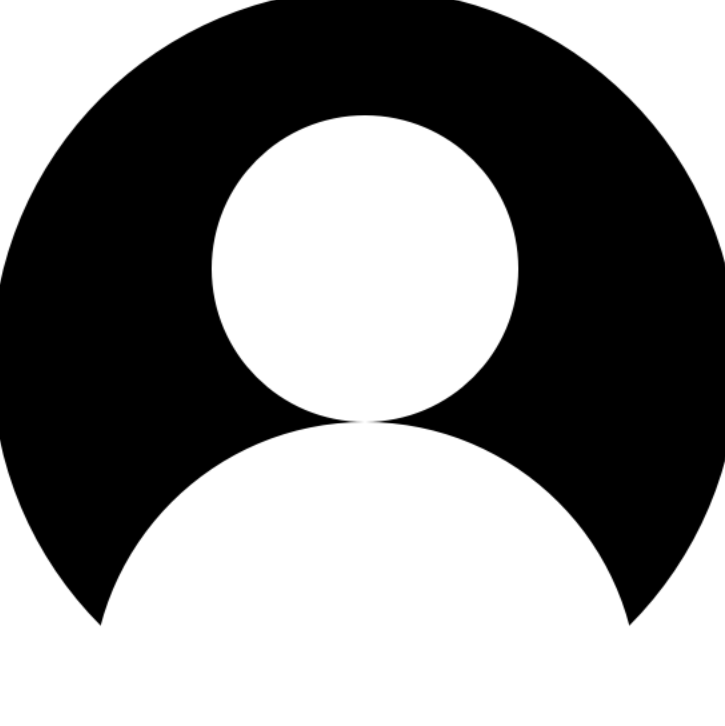
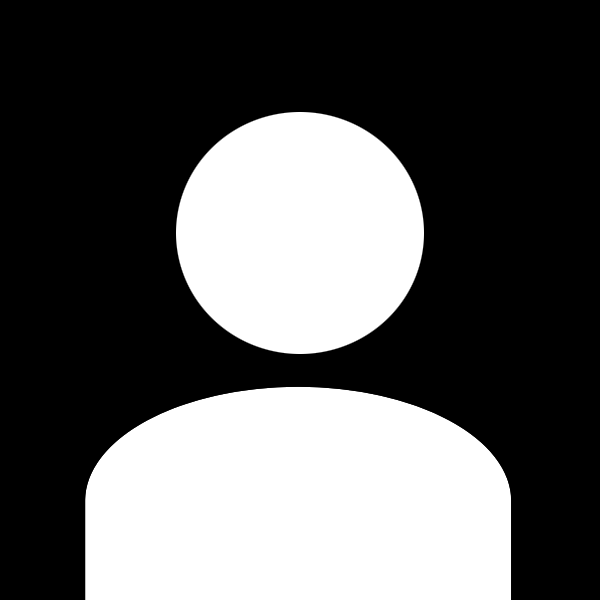
fix : Safari 에서 이미지가 둥글게 표시되지 않던 오류 픽스

diff --git a/src/components/page-title/index.js b/src/components/page-title/index.js
@@ -10,11 +10,9 @@ const PageTitle = ({ title }) => {
   const { author } = useMetadata()
   return (
     <div className="page-title">
-      <GatsbyImage
-        image={profileImg}
-        style={{ borderRadius: '50px' }}
-        alt={author}
-      />
+      <div className="page-title-profile">
+        <GatsbyImage image={profileImg} alt={author} />
+      </div>
       <Title title={title} />
     </div>
   )

diff --git a/src/components/page-title/index.scss b/src/components/page-title/index.scss
@@ -7,3 +7,9 @@
     padding: 0;
   }
 }
+
+.page-title-profile {
+  overflow: hidden;
+  isolation: isolate;
+  border-radius: 50px;
+}
